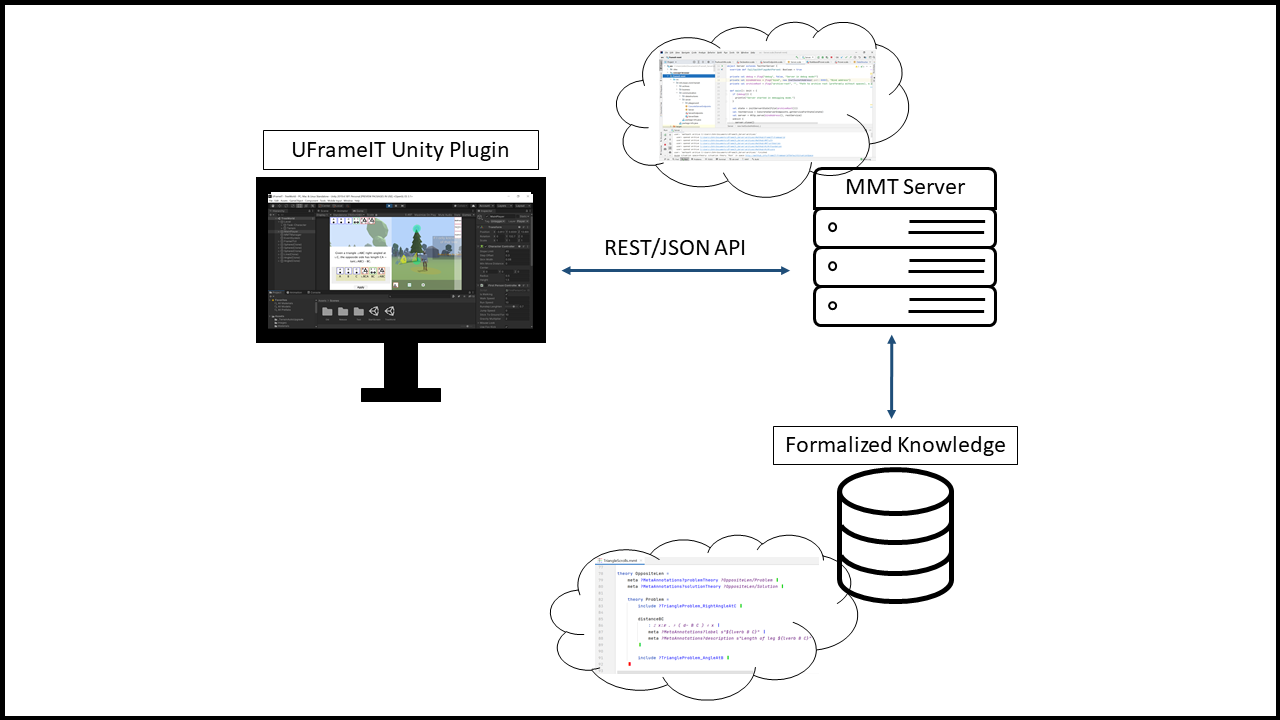
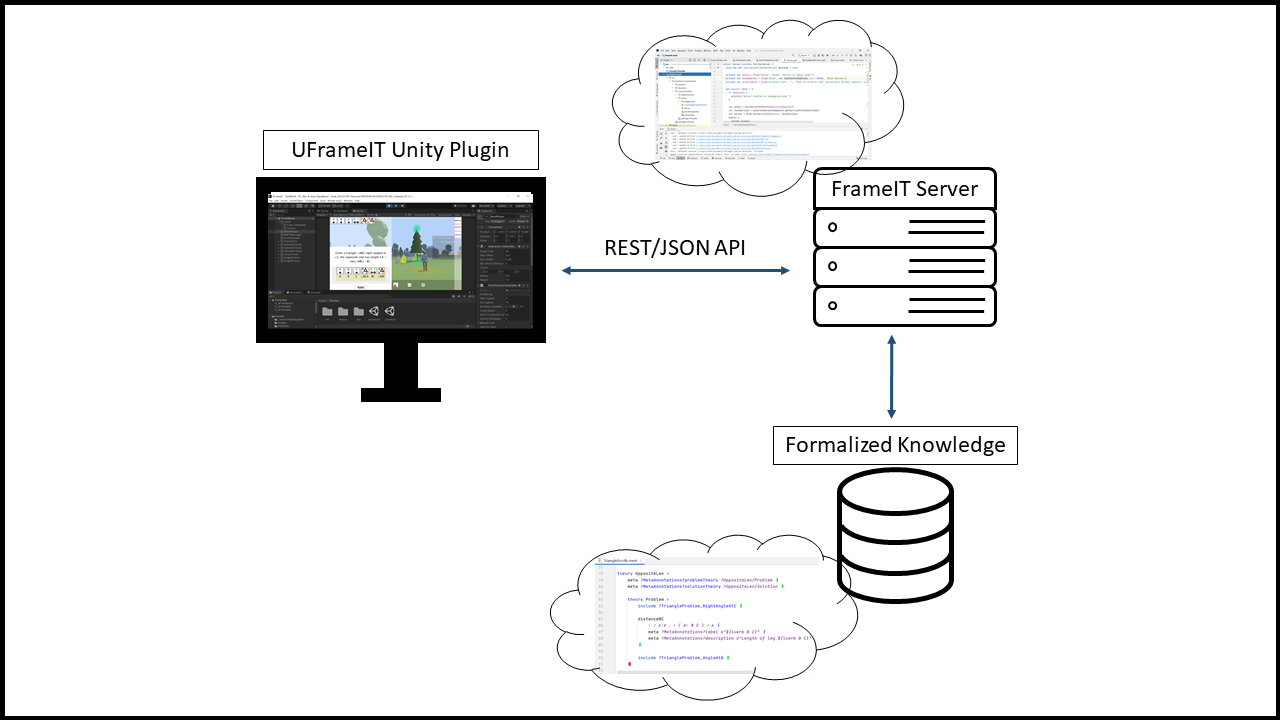
Updated architecture-diagram

Changed region(s): [[0.4688, 0.0306, 0.7188, 0.275], [0.625, 0.1528, 0.7812, 0.275]]

diff --git a/index.md b/index.md
@@ -29,6 +29,8 @@ Built executables of previous releases can be found here: [UFrameIT releases](ht
 
 ## The UFrameIT Framework and Serious Games
 
+<img src="img/UFrameIT-Architecture-Diagram.png" alt="UFrameIT Architecture" class="inline"/>
+
 In the FrameIT method, we use [MMT][MMT] theory graphs to
 encode and represent the knowledge about the world and its logic, whereas we use a game
 engine (currently [Unity](https://unity.com); but others are possible) to create and visualize the virtual world.
